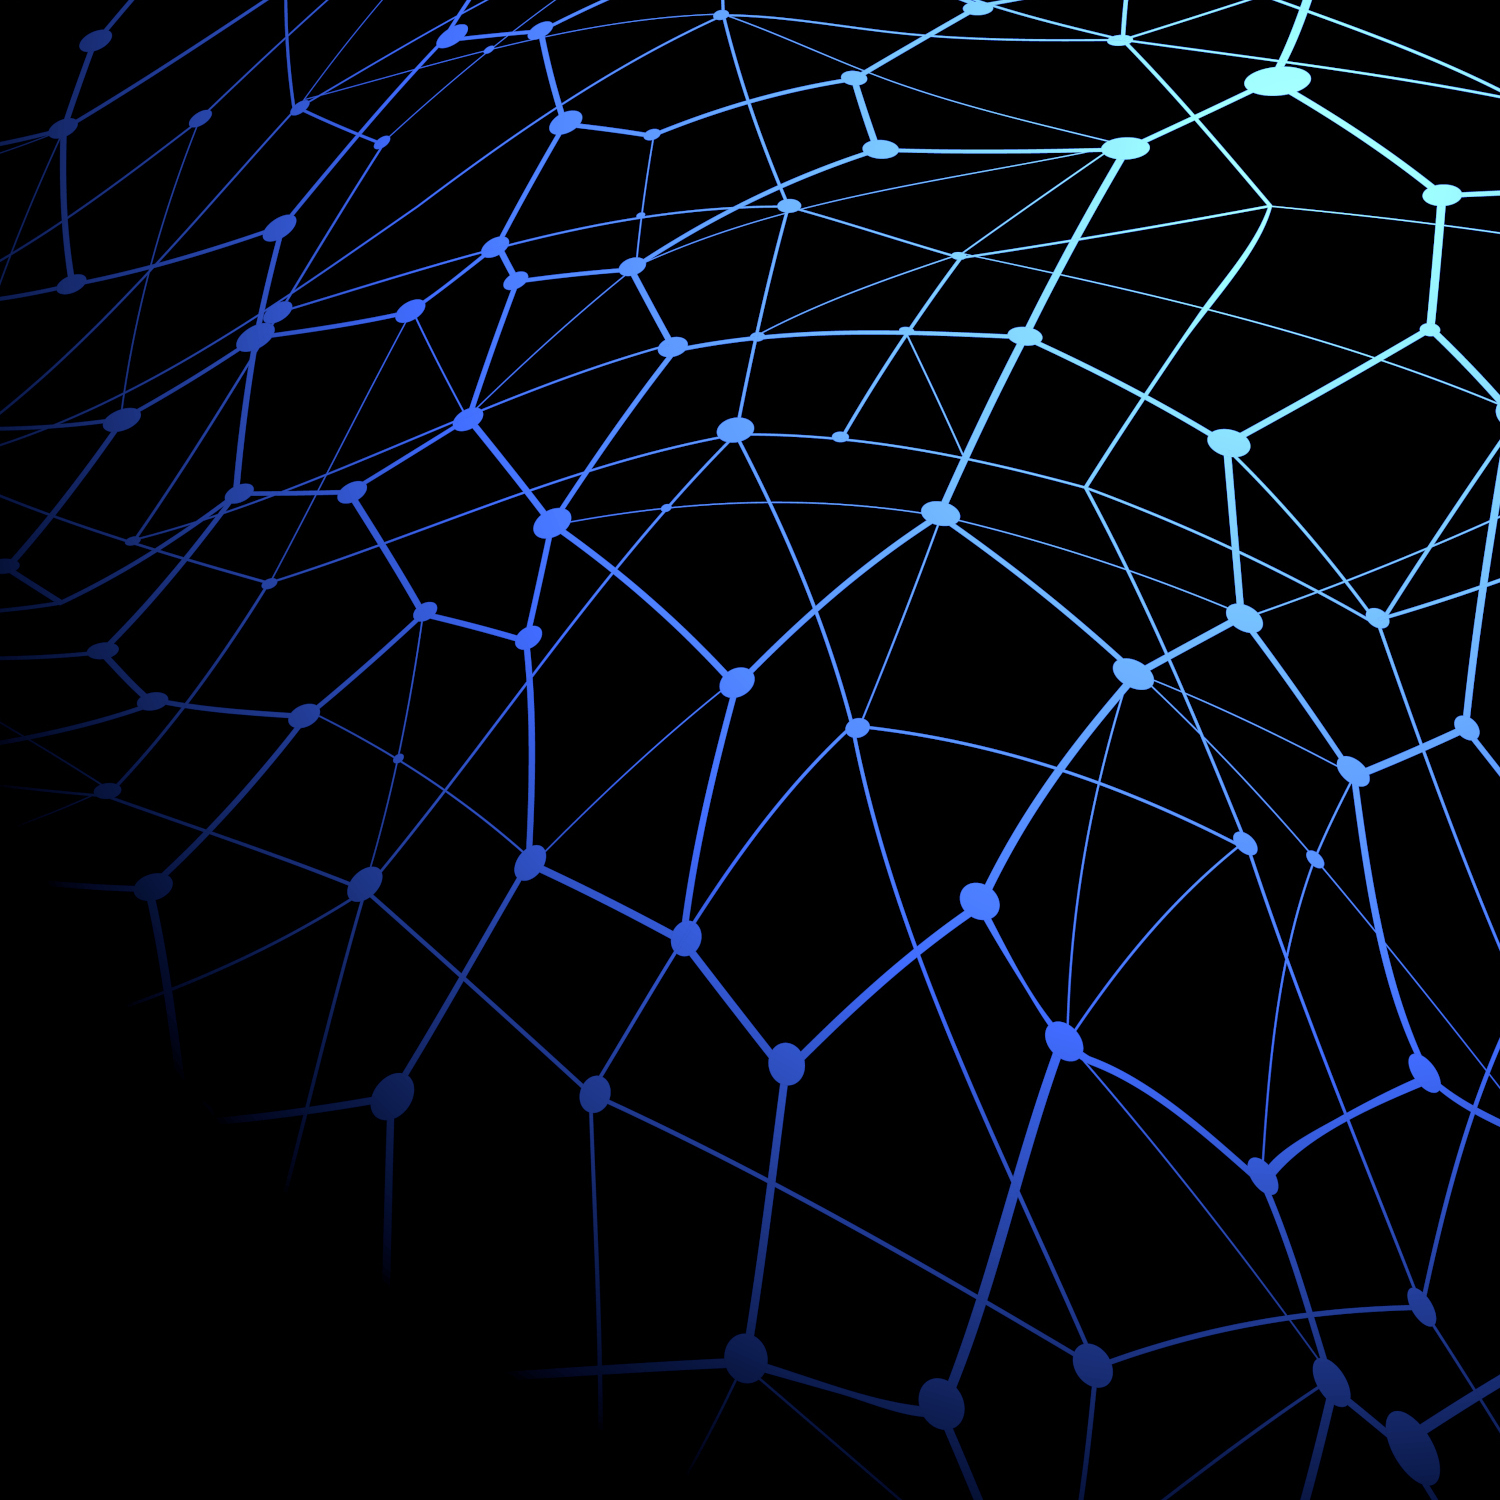
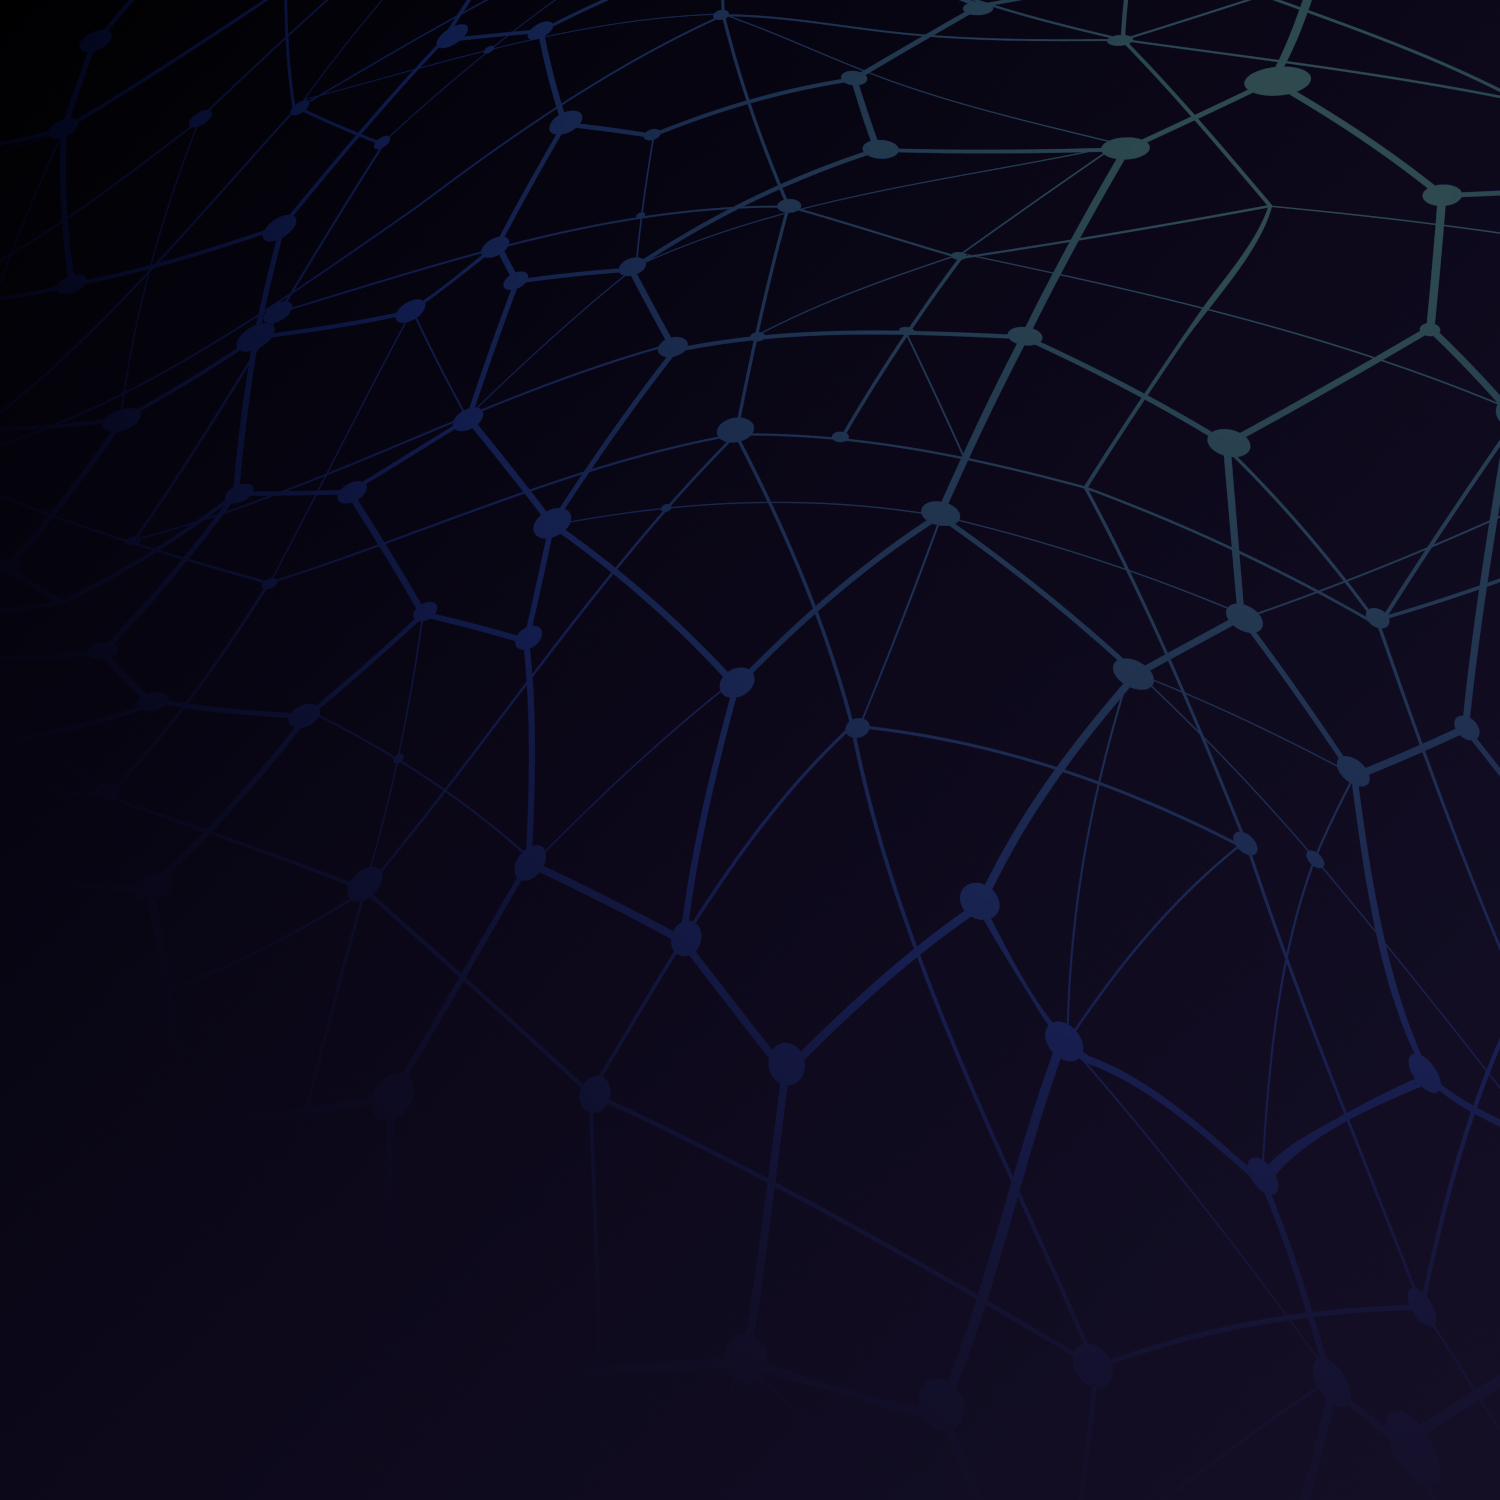
feat: Add floating main and replace background image

diff --git a/styles/style_desktop.css b/styles/style_desktop.css
@@ -1,25 +1,15 @@
 @import url("root.css");
 
 body {
-    background: linear-gradient(130deg, black,  hsl(var(--color-base-accent-H),var(--color-base-accent-S), 30%));
+    background-image: url(../assets/bg.jpg);
+    background-size: 100%;
+    background-attachment: fixed;
 }
 
 body::-webkit-scrollbar {
     display: none;
     -ms-overflow-style: none;
     scrollbar-width: none;
-}
-
-body::after {
-    content: "";
-    background-image: url(../assets/bg.jpg);
-    background-size: 100%;
-    position: fixed;
-    opacity: 15%;
-    top: 0;
-    left: 0;
-    bottom: 0;
-    right: 0;
 }
 
 a {
@@ -73,7 +63,6 @@ header{
     padding-left: 15px;
     align-items: center;
     
-    
     #section__principal{
         display: flex;
         flex-direction: column;
@@ -81,9 +70,7 @@ header{
         height: 70%;
         width: 75%;
         position: fixed;
-        z-index: 2;
-
-    
+        
         #top_left { 
             width: 30vw;
             height: 12vh;
@@ -199,13 +186,16 @@ main{
     align-items: center;
     
     #section__tecnologias {
+        border-top: 5px solid red;
         background-color: var(--color-background-primary);
         padding: 5vh 15px 5vh 15px;
         display: flex;
         flex-direction: column;
         align-self: center;
         width: 100%;
-        z-index: 3;
+        z-index: 1;
+        
+        
 
         .section__tecnologias__titulo {
             margin: 4rem;
@@ -253,7 +243,7 @@ main{
         flex-direction: column;
         align-self: center;
         width: 100%;
-        z-index: 3;
+        z-index: 2;
 
         .section__certificacoes__titulo {
             margin: 4rem;
@@ -360,13 +350,14 @@ main{
     }
 
     #section__projetos {
+        border-bottom: 5px solid red;
         background-color: var(--color-background-primary);
         padding: 0 15px 10vh 15px;
         display: flex;
         flex-direction: column;
         align-self: center;
         width: 100%;
-        z-index: 3;
+        z-index: 2;
 
         .section__projetos__titulo {
             margin: 4rem;
@@ -453,7 +444,7 @@ main{
             .card:hover {
                 transform: scale(1.15);
                 transition: 0.4s;
-                z-index: 2;
+                z-index: 3;
             
                 .card__cover {
                     clip-path: none;
@@ -470,4 +461,18 @@ main{
     #footer__curriculo{
         display: none;
     }
+
+    #contact{
+        display: flex;
+        z-index: 5;
+        background-image: url(../assets/bg.jpg);
+        background-size: 100%;
+        background-attachment:fixed;
+        width: 100vw;
+        height: 3vh;
+    }
 }
+
+
+
+

diff --git a/styles/style_mobile.css b/styles/style_mobile.css
@@ -2,10 +2,9 @@
 
 @media screen and (max-width: 500px) {
 
-    body::after {
+    body {
         background-size: cover;
-        left: -80%;
-        opacity: 25%;
+        background-position: -100%;
     }
 
     nav{
@@ -177,12 +176,13 @@
         #footer__curriculo{
             width: 100%;
             height: 10vh;
-            background-color: var(--color-background-primary);
+            background-image: url(../assets/bg.jpg);
+            background-attachment: fixed;
             z-index: 3;
             display: flex;
             justify-content: space-evenly;
             align-items: center;
-            padding: 1vh 0 10vh 0;
+            padding: 5vh 0 8vh 0;
 
             a { color: var(--color-link) }
 

diff --git a/index.html b/index.html
@@ -202,7 +202,7 @@
         </section>
 
         <section id="section__projetos">
-            <h3 class="section__projetos__titulo">: : PROJETOS : :</h3>
+            <h3 class="section__projetos__titulo">: : PORTFOLIO : :</h3>
 
             <div id="projetos__container">
 
@@ -345,7 +345,12 @@
                 Resume (en-us)
             </a>
         </section>
+        <section id="contact">
+
+        </section>
     </main>
+
+    
 
     <!-- Janela modal -->
     <div id="myModal" class="modal">
@@ -355,6 +360,8 @@
             <div id="modalContent"></div>
         </div>
     </div>
+
+    
 
     <script src="./scripts/modal.js"></script>
 </body>

diff --git a/styles/root.css b/styles/root.css
@@ -1,6 +1,6 @@
 :root {
     
-    --color-base: hsl(73, 65%, 70%);
+    --color-base: #9a81e4;
 
     --color-base-accent-H: 255;
     --color-base-accent-S: 65%;
